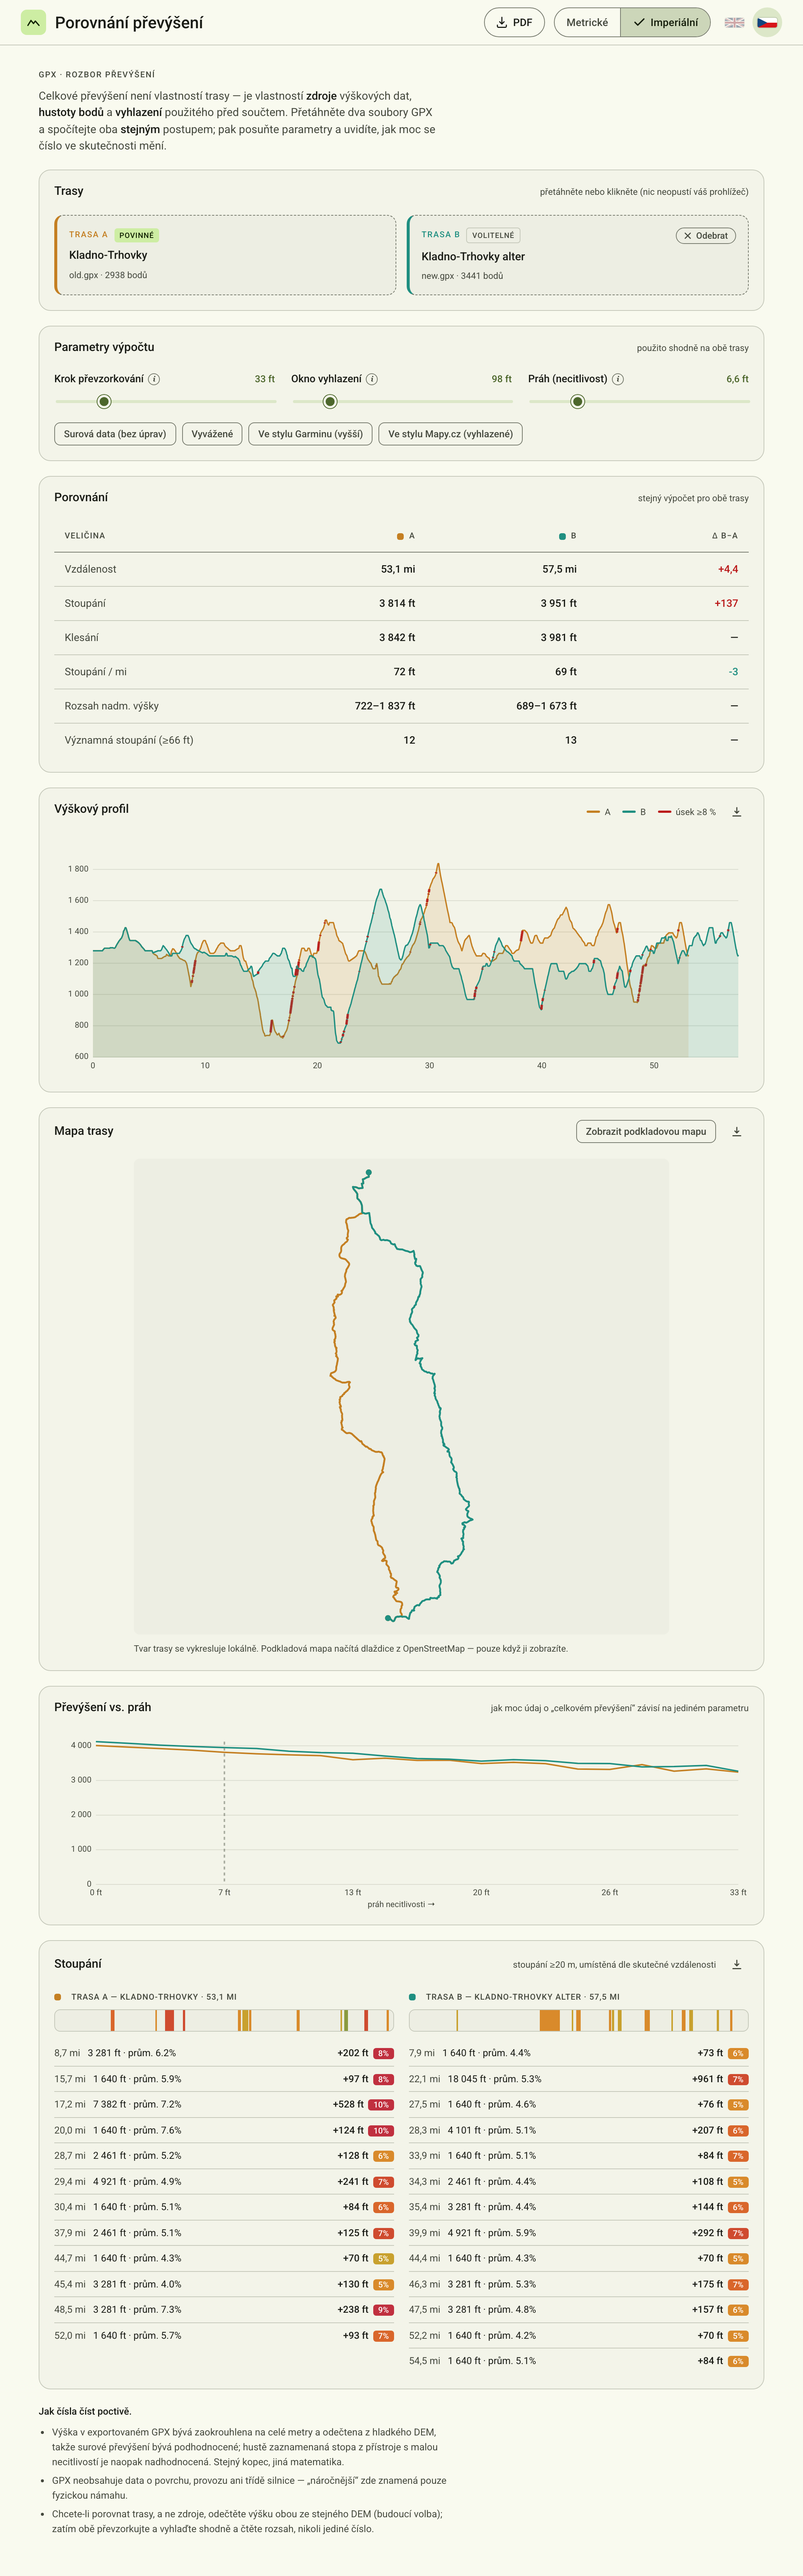
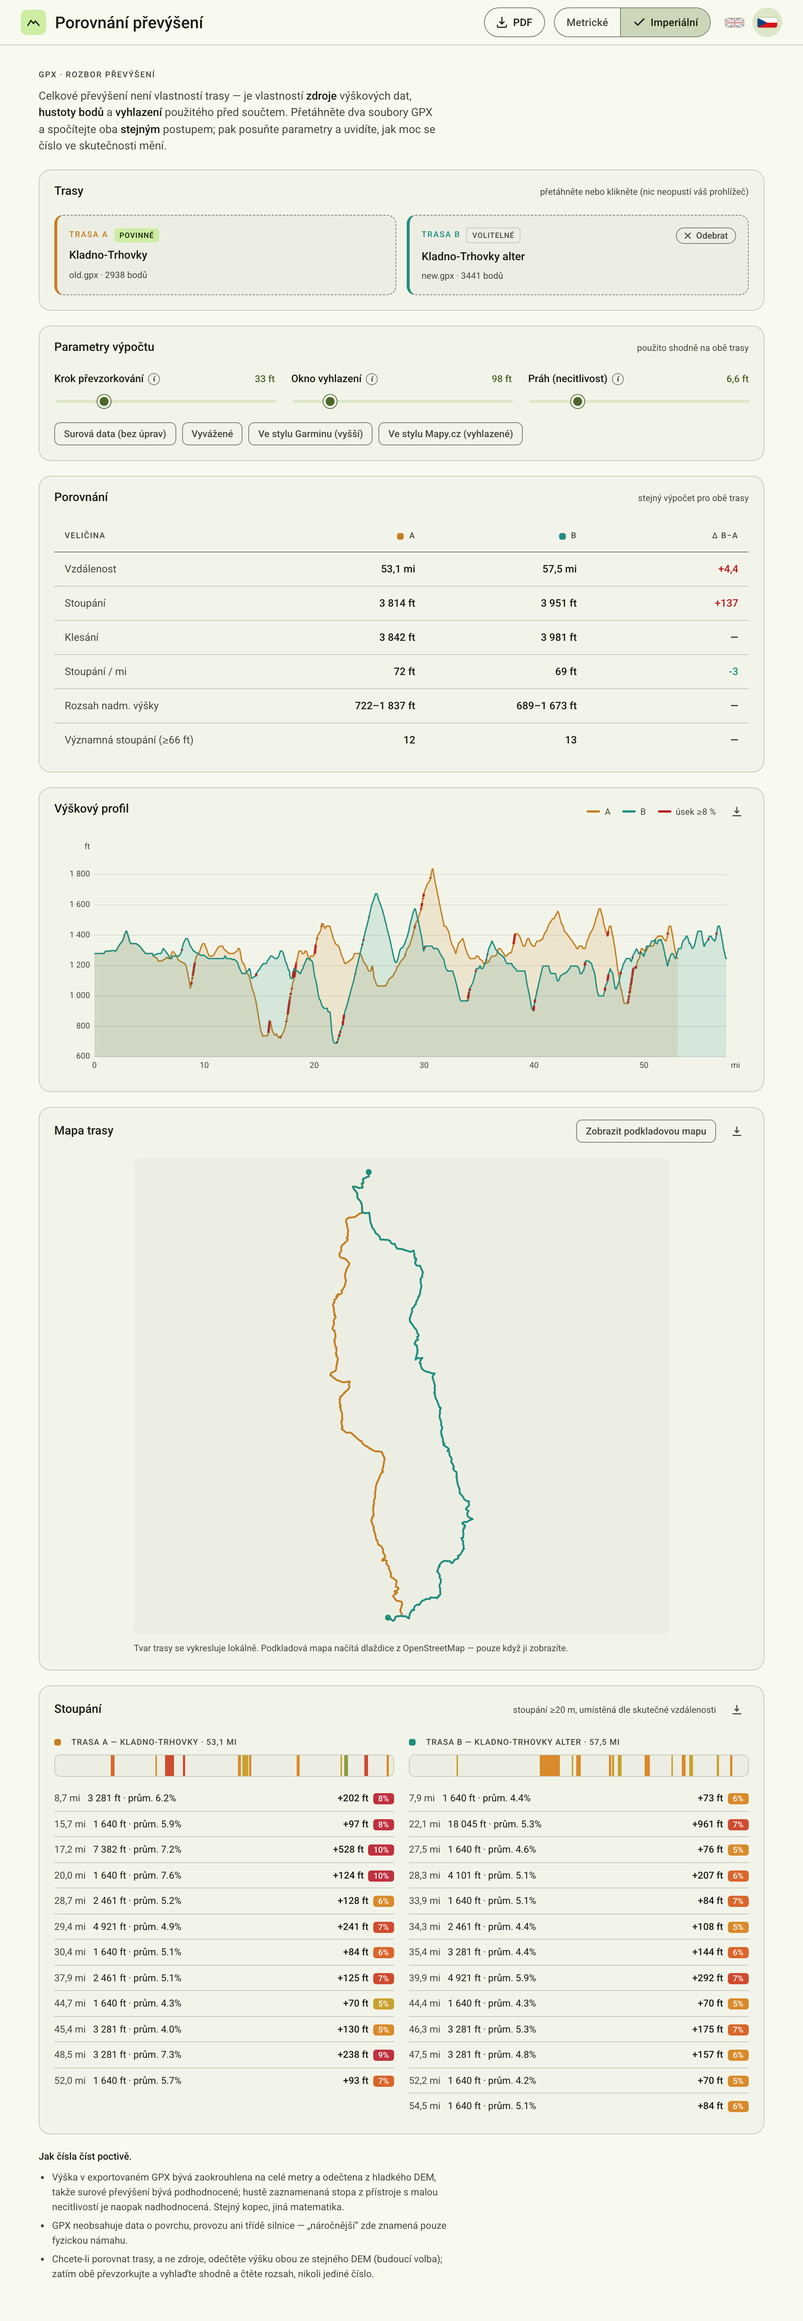
Remove Gain-vs-threshold chart; add elevation-profile axis units
- Drop the sensitivity chart (card, canvas, draw fn, PDF section, i18n) entirely.
- Label the elevation profile axes: elevation unit (m/ft) at the top of the
  y-axis and distance unit (km/mi) at the end of the x-axis; both follow the
  metric/imperial toggle.

diff --git a/index.html b/index.html
@@ -494,12 +494,6 @@
     </div>
   </div>
 
-  <!-- sensitivity -->
-  <div class="card">
-    <div class="hd"><h2 class="t-title-m" data-i18n="sensTitle">Gain vs. threshold</h2><span class="hint" data-i18n="sensHint"></span></div>
-    <div class="bd"><div class="chart-shell"><canvas id="sens" height="240"></canvas></div></div>
-  </div>
-
   <!-- climbs -->
   <div class="card">
     <div class="hd"><h2 class="t-title-m" data-i18n="climbsTitle">Where the climbing lives</h2>
@@ -553,8 +547,6 @@
       mapTitle: "Route map", showBasemap: "Show basemap", hideBasemap: "Hide basemap",
       mapNote: "Route shape is drawn locally. The basemap loads map tiles from OpenStreetMap — only when you show it.",
       exportPdf: "PDF", pdfWorking: "Building…", pdfError: "Sorry — the PDF couldn’t be generated.", exportPng: "Download as PNG",
-      sensTitle: "Gain vs. threshold", sensHint: "how far the “total ascent” claim depends on one knob",
-      sensX: "deadband threshold →",
       climbsTitle: "Climbs", climbsHint: "climbs ≥20 m, placed at their real distance",
       unnamed: "unnamed", noClimbs: "no climbs above the cut-off", avg: "avg",
       footTitle: "Reading the numbers honestly.",
@@ -587,8 +579,6 @@
       mapTitle: "Mapa trasy", showBasemap: "Zobrazit podkladovou mapu", hideBasemap: "Skrýt podkladovou mapu",
       mapNote: "Tvar trasy se vykresluje lokálně. Podkladová mapa načítá dlaždice z OpenStreetMap — pouze když ji zobrazíte.",
       exportPdf: "PDF", pdfWorking: "Vytvářím…", pdfError: "Omlouváme se — PDF se nepodařilo vytvořit.", exportPng: "Stáhnout jako PNG",
-      sensTitle: "Převýšení vs. práh", sensHint: "jak moc údaj o „celkovém převýšení“ závisí na jediném parametru",
-      sensX: "práh necitlivosti →",
       climbsTitle: "Stoupání", climbsHint: "stoupání ≥20 m, umístěná dle skutečné vzdálenosti",
       unnamed: "bez názvu", noClimbs: "žádná stoupání nad prahovou hodnotou", avg: "prům.",
       footTitle: "Jak čísla číst poctivě.",
@@ -783,7 +773,7 @@
   function drawProfileInto(ctx, w, h, interactive) {
     const tracks = [state.A, state.B].filter(Boolean);
     if (!tracks.length) { if (interactive) profGeo = null; softMsg(ctx, w, h, t("loadTrack")); return; }
-    const pad = { l: 52, r: 14, t: 14, b: 26 }, W = w - pad.l - pad.r, H = h - pad.t - pad.b;
+    const pad = { l: 54, r: 30, t: 22, b: 26 }, W = w - pad.l - pad.r, H = h - pad.t - pad.b;
     const maxD = Math.max(...tracks.map(x => x.distKm));
     let eMin = Math.min(...tracks.map(x => x.eMin)), eMax = Math.max(...tracks.map(x => x.eMax));
     const ep = Math.max(10, (eMax - eMin) * 0.08); eMin -= ep; eMax += ep;
@@ -797,9 +787,12 @@
       ctx.globalAlpha = .55; ctx.beginPath(); ctx.moveTo(pad.l, y); ctx.lineTo(w - pad.r, y); ctx.stroke(); ctx.globalAlpha = 1;
       ctx.textAlign = "right"; ctx.fillText(nf(md), pad.l - 6, y);
     }
+    // axis units: elevation at the top of the y-axis, distance at the right end of the x-axis
+    ctx.textAlign = "right"; ctx.textBaseline = "alphabetic"; ctx.fillText(eleU(), pad.l - 6, pad.t - 8);
     ctx.textAlign = "center"; ctx.textBaseline = "top";
     const maxDd = uDist(maxD), stepDd = niceStep(maxDd / 8);
     for (let kd = 0; kd <= maxDd + 1e-6; kd += stepDd) { const km = unit === "imperial" ? kd / KM2MI : kd; ctx.fillText(nf(kd), X(km), h - pad.b + 6); }
+    ctx.textAlign = "left"; ctx.fillText(distU(), w - pad.r + 6, h - pad.b + 6);
 
     const cA = css("--a"), cB = css("--b"), sA = css("--a-soft"), sB = css("--b-soft"), st = css("--steep");
     for (const [key, tr] of [["A", state.A], ["B", state.B]]) {
@@ -848,27 +841,6 @@
   });
   $("profile").addEventListener("mouseleave", () => { tip.style.opacity = 0; drawProfile(); mapHoverKm = null; updateMapHover(); });
 
-  function drawSens() {
-    const setup = setupCanvas($("sens"), 240); if (!setup) return;
-    drawSensInto(setup.ctx, setup.w, setup.h);
-  }
-  function drawSensInto(ctx, w, h) {
-    const tracks = [["A", state.A], ["B", state.B]].filter(x => x[1]);
-    if (!tracks.length) { softMsg(ctx, w, h, t("loadTrack")); return; }
-    const ths = []; for (let x = 0; x <= 10; x += 0.5) ths.push(x);
-    const series = tracks.map(([k, tr]) => ({ k, vals: ths.map(x => uEle(gainLoss(tr.es, x).gain)) }));
-    const maxG = Math.max(...series.flatMap(s => s.vals), 1);
-    const pad = { l: 56, r: 14, t: 14, b: 34 }, W = w - pad.l - pad.r, H = h - pad.t - pad.b;
-    const X = th => pad.l + (th / 10) * W, Y = g => pad.t + H - (g / maxG) * H;
-    ctx.font = "11px Roboto, sans-serif"; ctx.strokeStyle = css("--md-outline-variant"); ctx.fillStyle = css("--md-on-surface-variant");
-    const gStep = niceStep(maxG / 4); ctx.textAlign = "right"; ctx.textBaseline = "middle";
-    for (let g = 0; g <= maxG; g += gStep) { const y = Y(g); ctx.globalAlpha = .55; ctx.beginPath(); ctx.moveTo(pad.l, y); ctx.lineTo(w - pad.r, y); ctx.stroke(); ctx.globalAlpha = 1; ctx.fillText(nf(g), pad.l - 6, y); }
-    ctx.textAlign = "center"; ctx.textBaseline = "top";
-    for (let x = 0; x <= 10; x += 2) ctx.fillText(nf(uEle(x)) + " " + eleU(), X(x), h - pad.b + 6);
-    ctx.fillText(t("sensX"), w / 2, h - 12);
-    for (const s of series) { ctx.strokeStyle = css(s.k === "A" ? "--a" : "--b"); ctx.lineWidth = 2; ctx.beginPath(); s.vals.forEach((g, i) => { const x = X(ths[i]), y = Y(g); i ? ctx.lineTo(x, y) : ctx.moveTo(x, y); }); ctx.stroke(); }
-    ctx.strokeStyle = css("--md-outline"); ctx.globalAlpha = .6; ctx.setLineDash([4, 4]); ctx.beginPath(); ctx.moveTo(X(opts.thresh), pad.t); ctx.lineTo(X(opts.thresh), pad.t + H); ctx.stroke(); ctx.setLineDash([]); ctx.globalAlpha = 1;
-  }
 
   function gradColor(g) { const stops = [[3, "#8a9a3f"], [4, "#c8a12e"], [5, "#d98a2b"], [6, "#d9662b"], [7, "#cf4b2f"], [8, "#c0303f"]]; let c = stops[0][1]; for (const [g0, col] of stops) if (g >= g0) c = col; return c; }
   function renderClimbs() {
@@ -993,7 +965,7 @@
   function updateMapHover() { if (basemapOn && lmap) updateLeafletMarker(); else drawMapCanvas(); }
 
   // ---------------- export (PNG per section + A4 PDF report) ----------------
-  const EX = { profile: [1120, 340], sens: [1120, 260], map: [720, 640] };
+  const EX = { profile: [1120, 340], map: [720, 640] };
   function roundRect(ctx, x, y, w, h, r) {
     if (ctx.roundRect) { ctx.beginPath(); ctx.roundRect(x, y, w, h, r); return; }
     ctx.beginPath(); ctx.moveTo(x + r, y); ctx.arcTo(x + w, y, x + w, y + h, r); ctx.arcTo(x + w, y + h, x, y + h, r); ctx.arcTo(x, y + h, x, y, r); ctx.arcTo(x, y, x + w, y, r); ctx.closePath();
@@ -1143,7 +1115,6 @@
         table: renderToCanvas(drawTableInto, 1120, tableExportHeight(), 2, "#ffffff"),
         profile: renderToCanvas((c, w, h) => drawProfileInto(c, w, h, false), EX.profile[0], EX.profile[1], 2, "#ffffff"),
         map: await mapExportCanvas("#ffffff"),
-        sens: renderToCanvas(drawSensInto, EX.sens[0], EX.sens[1], 2, "#ffffff"),
         climbs: renderToCanvas(drawClimbsInto, 1120, climbsExportHeight(), 2, "#ffffff")
       }));
       const { jsPDF } = window.jspdf;
@@ -1170,7 +1141,6 @@
       section(t("compTitle"), parts.table, 8);
       section(t("profTitle"), parts.profile, 8);
       section(t("mapTitle"), parts.map, 8);
-      section(t("sensTitle"), parts.sens, 8);
       section(t("climbsTitle"), parts.climbs, 8);
       const pages = doc.getNumberOfPages();
       for (let i = 1; i <= pages; i++) { doc.setPage(i); doc.setFont("helvetica", "normal"); doc.setFontSize(8); doc.setTextColor(150, 150, 150); doc.text(`${i} / ${pages}`, W - M, H - 6, { align: "right" }); }
@@ -1185,7 +1155,7 @@
     $("pdfBtn").disabled = $("pngProfile").disabled = $("pngClimbs").disabled = !has;
     $("pngMap").disabled = !(state.geoA || state.geoB);
   }
-  function renderAll() { renderStats(); drawProfile(); drawSens(); renderClimbs(); updateStatHint(); updateExportButtons(); }
+  function renderAll() { renderStats(); drawProfile(); renderClimbs(); updateStatHint(); updateExportButtons(); }
   function recompute() { state.A = state.rawA ? process(state.rawA) : null; state.B = state.rawB ? process(state.rawB) : null; renderAll(); }
 
   // ---------------- wiring ----------------
@@ -1288,12 +1258,12 @@
   }
 
   let rz; window.addEventListener("resize", () => {
-    drawProfile(); drawSens(); drawMapCanvas(); if (basemapOn && lmap) lmap.invalidateSize();
-    clearTimeout(rz); rz = setTimeout(() => { drawProfile(); drawSens(); drawMapCanvas(); }, 120);
+    drawProfile(); drawMapCanvas(); if (basemapOn && lmap) lmap.invalidateSize();
+    clearTimeout(rz); rz = setTimeout(() => { drawProfile(); drawMapCanvas(); }, 120);
   });
   const mq = window.matchMedia("(prefers-color-scheme: dark)");
-  mq.addEventListener && mq.addEventListener("change", () => { drawProfile(); drawSens(); drawMapCanvas(); if (basemapOn && lmap) rebuildLeafletRoutes(); });
-  if (document.fonts && document.fonts.ready) document.fonts.ready.then(() => { drawProfile(); drawSens(); drawMapCanvas(); });
+  mq.addEventListener && mq.addEventListener("change", () => { drawProfile(); drawMapCanvas(); if (basemapOn && lmap) rebuildLeafletRoutes(); });
+  if (document.fonts && document.fonts.ready) document.fonts.ready.then(() => { drawProfile(); drawMapCanvas(); });
 
   // init
   syncToggleUI();

diff --git a/README.md b/README.md
@@ -42,8 +42,7 @@ it samples more densely, and it uses a smaller deadband — all three push the n
   the *routes*, not the *apps*.
 - Three live knobs — **resample spacing**, **smoothing window**, **deadband threshold** — plus
   presets (`Raw`, `Balanced`, `Garmin-ish`, `Mapy-ish`).
-- **Elevation profile** overlay with ≥8% ramps highlighted and a hover crosshair.
-- **Gain-vs-threshold** sensitivity chart: see how fragile the "total ascent" claim is to one knob.
+- **Elevation profile** overlay with ≥8% ramps highlighted, axis units, and a hover crosshair.
 - **Climb distribution**: named climbs (≥20 m) placed at their real distance, coloured by gradient.
 - **Route map**: both routes drawn locally as a shape (offline, no requests) so you can see where
   the alternatives diverge, with an opt-in **Show basemap** button that lazy-loads an
